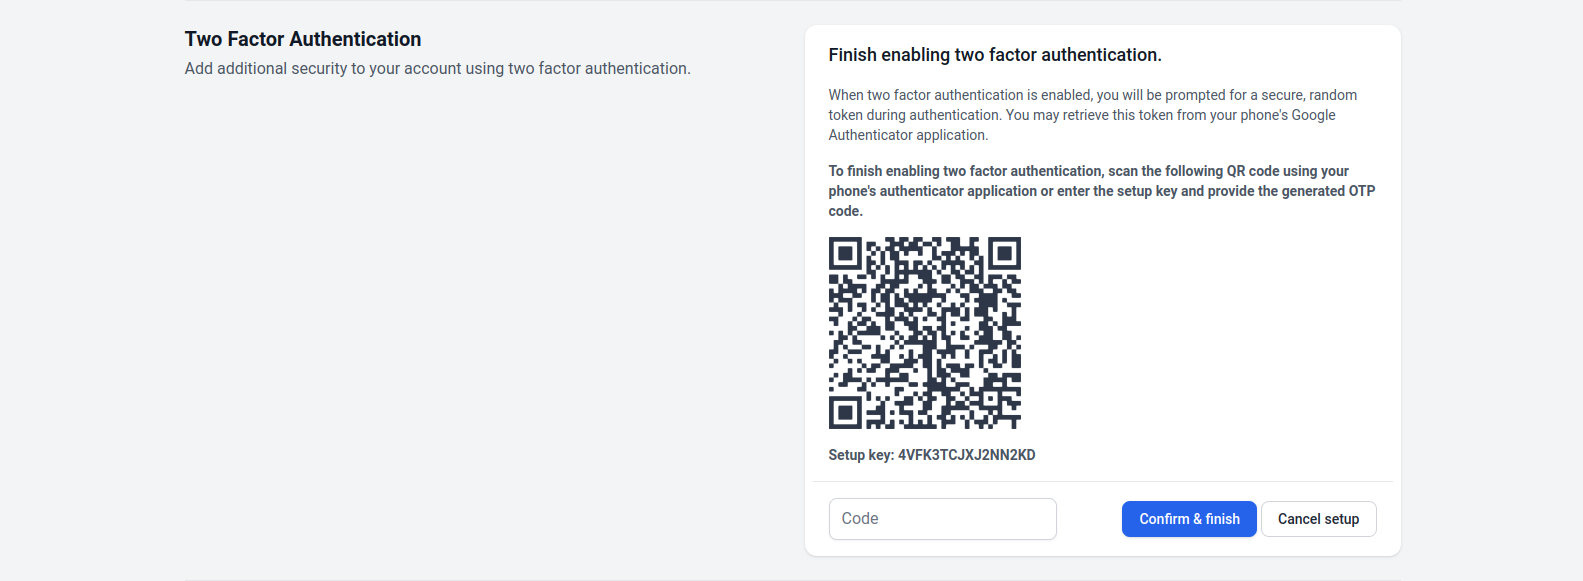
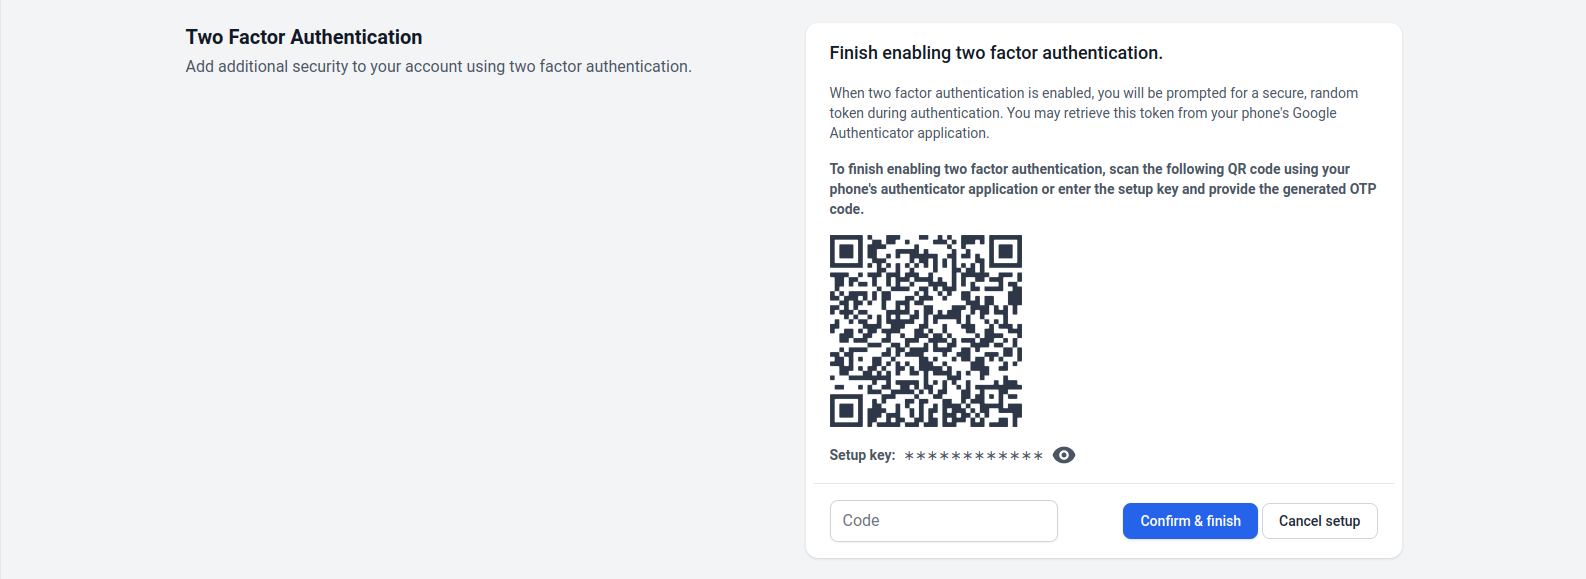
Toggle secret code visibility

diff --git a/resources/views/components/two-factor-security-code.blade.php b/resources/views/components/two-factor-security-code.blade.php
@@ -1,0 +1,21 @@
+@props(['code', 'hiddenCodeSymbol' => '&lowast;', 'hiddenCodeSymbolTimes' => 12])
+
+<div class="mt-4 max-w-xl text-sm text-gray-600 dark:text-gray-300">
+    <div class="flex items-center">
+        <p class="font-semibold mr-2">
+            {{ __('filament-jet::account.2fa.setup_key') }}:
+        </p>
+
+        <div x-data="{ displayTwoFactorSecret: false }" class="flex items-center">
+            <span class="mr-2"
+                  x-html="displayTwoFactorSecret ? '{{ $code }}' : '{{ str_repeat($hiddenCodeSymbol, $hiddenCodeSymbolTimes) }}'"></span>
+
+            <x-heroicon-s-eye class="w-6 h-6 cursor-pointer"
+                              x-show="! displayTwoFactorSecret"
+                              x-on:click="displayTwoFactorSecret = ! displayTwoFactorSecret" />
+            <x-heroicon-s-eye-off class="w-6 h-6 cursor-pointer"
+                                  x-show="displayTwoFactorSecret"
+                                  x-on:click="displayTwoFactorSecret = ! displayTwoFactorSecret" />
+        </div>
+    </div>
+</div>

diff --git a/resources/views/filament/pages/account.blade.php b/resources/views/filament/pages/account.blade.php
@@ -98,11 +98,7 @@
                         <div class="mt-2">
                             {!! $this->user->twoFactorQrCodeSvg() !!}
 
-                            <div class="mt-4 max-w-xl text-sm text-gray-600 dark:text-gray-300">
-                                <p class="font-semibold">
-                                    {{ __('filament-jet::account.2fa.setup_key') }}: {{ decrypt($this->user->two_factor_secret) }}
-                                </p>
-                            </div>
+                            <x-filament-jet-two-factor-security-code :code="decrypt($this->user->two_factor_secret)" />
                         </div>
                     @endif
 

diff --git a/src/FilamentJetServiceProvider.php b/src/FilamentJetServiceProvider.php
@@ -120,6 +120,7 @@ class FilamentJetServiceProvider extends PluginServiceProvider
             $this->registerComponent('section-border');
             $this->registerComponent('token-field');
             $this->registerComponent('progress-bar');
+            $this->registerComponent('two-factor-security-code');
         });
     }
 
